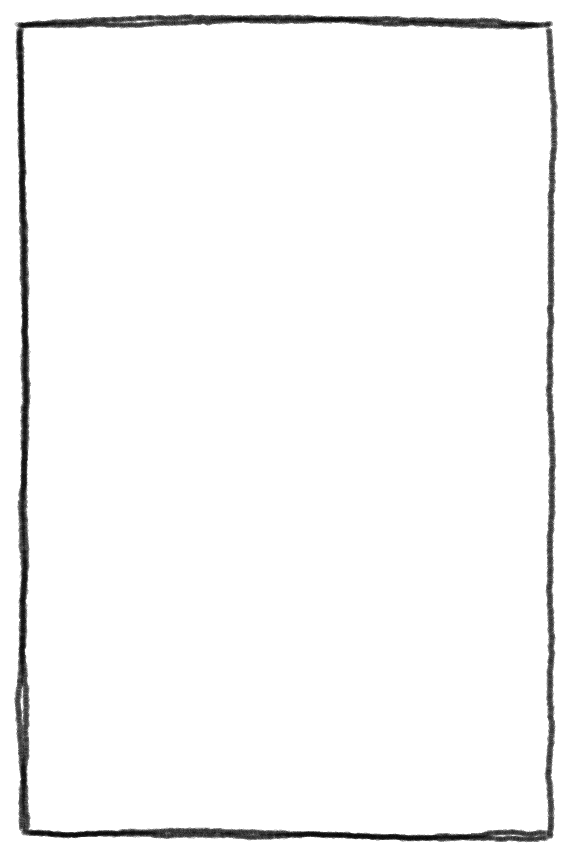
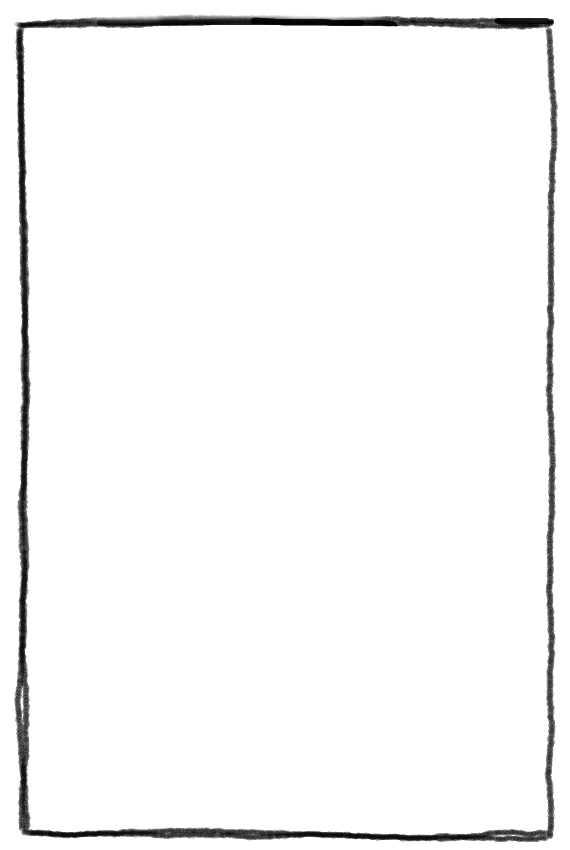
💄 Update the lines

Changed region(s): [[0.1491, 0.0, 0.686, 0.0306], [0.8649, 0.0, 0.9842, 0.0306]]

diff --git a/src/features/desk/presentation/book-lines.ts b/src/features/desk/presentation/book-lines.ts
@@ -17,14 +17,14 @@ type BookLinesLayout = {
 const BOOK_LINES_ASSET_PATH = 'lines/books';
 
 const BOOK_COVER_LINE_SCALE_X = 1.07;
-const BOOK_COVER_LINE_SCALE_Y = 1.04;
-const BOOK_COVER_LINE_OFFSET_X = 1;
+const BOOK_COVER_LINE_SCALE_Y = 1.05;
+const BOOK_COVER_LINE_OFFSET_X = 0;
 const BOOK_COVER_LINE_OFFSET_Y = 0;
 
 const BOOK_SPINE_LINE_SCALE_X = 1.26;
-const BOOK_SPINE_LINE_SCALE_Y = 1.05;
+const BOOK_SPINE_LINE_SCALE_Y = 1.02;
 const BOOK_SPINE_LINE_OFFSET_X = -1;
-const BOOK_SPINE_LINE_OFFSET_Y = 0;
+const BOOK_SPINE_LINE_OFFSET_Y = 1;
 
 const BOOK_SIDE_LINE_SCALE_X = 1.05;
 const BOOK_SIDE_LINE_SCALE_Y = 1.09;
